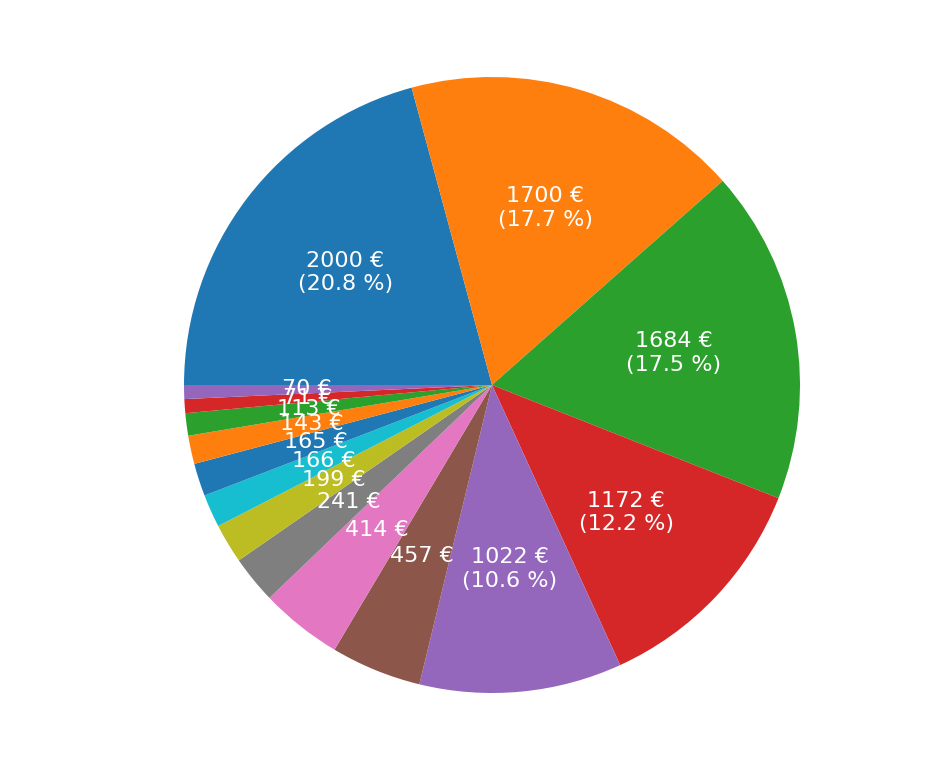
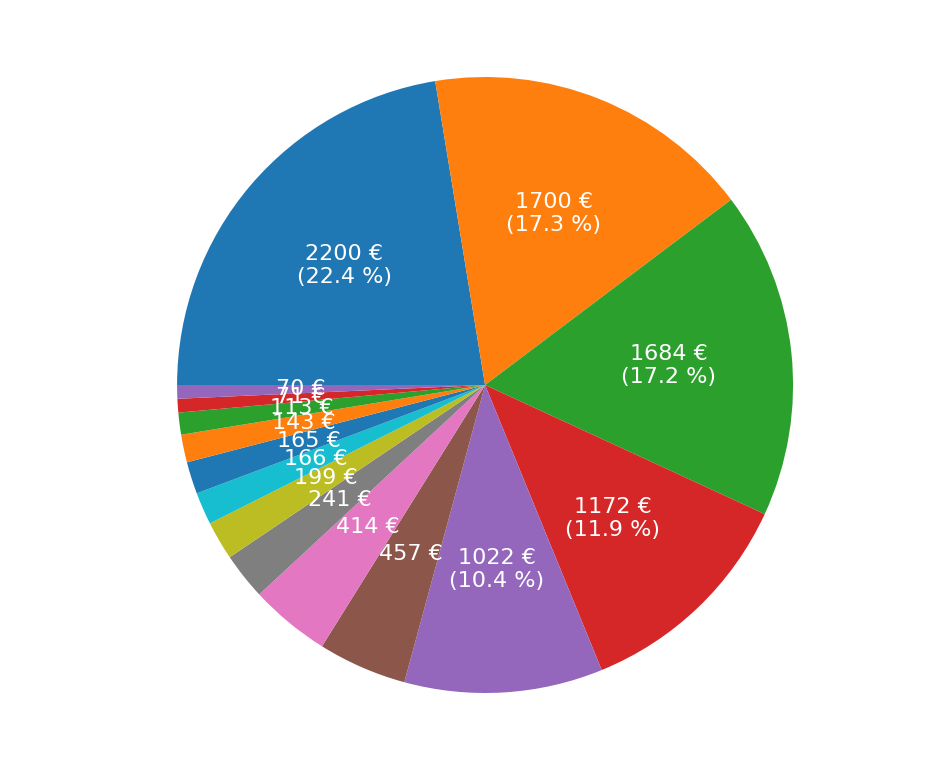
Update 24/06

diff --git a/page_compte.html b/page_compte.html
@@ -590,7 +590,7 @@
       <td>07/03/2022</td>
       <td>Courses Lasagnes</td>
       <td><a href="subpage_17.html">Lasagnes</a></td>
-      <td style="color:#FA413B"">-33.08 €</td>
+      <td style="color:#FA413B"">-74.83 €</td>
     </tr>
     <tr>
       <td>07/03/2022</td>
@@ -608,7 +608,7 @@
       <td>07/03/2022</td>
       <td>Courses Lasagnes</td>
       <td><a href="subpage_17.html">Lasagnes</a></td>
-      <td style="color:#FA413B"">-74.83 €</td>
+      <td style="color:#FA413B"">-33.08 €</td>
     </tr>
     <tr>
       <td>07/03/2022</td>
@@ -660,6 +660,12 @@
     </tr>
     <tr>
       <td>21/03/2022</td>
+      <td>Dépôt Cash Banque</td>
+      <td></td>
+      <td style="color:#34FF27"">405.00 €</td>
+    </tr>
+    <tr>
+      <td>21/03/2022</td>
       <td>Courses Bar Pis</td>
       <td><a href="subpage_5.html">Bar Pis 19/03</a></td>
       <td style="color:#FA413B"">-216.98 €</td>
@@ -669,12 +675,6 @@
       <td>Recettes Bar Pis</td>
       <td><a href="subpage_5.html">Bar Pis 19/03</a></td>
       <td style="color:#34FF27"">117.00 €</td>
-    </tr>
-    <tr>
-      <td>21/03/2022</td>
-      <td>Dépôt Cash Banque</td>
-      <td></td>
-      <td style="color:#34FF27"">405.00 €</td>
     </tr>
     <tr>
       <td>22/03/2022</td>
@@ -1056,15 +1056,15 @@
     </tr>
     <tr>
       <td>21/06/2022</td>
-      <td>Payement Hokaido</td>
-      <td><a href="subpage_18.html">Payement Camp pis</a></td>
-      <td style="color:#34FF27"">200.00 €</td>
-    </tr>
-    <tr>
-      <td>21/06/2022</td>
       <td><a href="subpage_22.html">Travaux Pis Q2</a></td>
       <td><a href="subpage_22.html">Travaux Pis Q2</a></td>
       <td style="color:#34FF27"">70.00 €</td>
+    </tr>
+    <tr>
+      <td>21/06/2022</td>
+      <td>Payement Hokaido</td>
+      <td><a href="subpage_18.html">Payement Camp pis</a></td>
+      <td style="color:#34FF27"">200.00 €</td>
     </tr>
     <tr>
       <td>22/06/2022</td>
@@ -1085,6 +1085,12 @@
       <td style="color:#FA413B"">-36.29 €</td>
     </tr>
     <tr>
+      <td>24/06/2022</td>
+      <td>Payement Couscous</td>
+      <td><a href="subpage_18.html">Payement Camp pis</a></td>
+      <td style="color:#34FF27"">200.00 €</td>
+    </tr>
+    <tr>
       <td>30/06/2022</td>
       <td>Créance Tricount</td>
       <td><a href="subpage_12.html">Créance</a></td>
@@ -1094,7 +1100,7 @@
       <td></td>
       <td>Total</td>
       <td></td>
-      <td style="color:#34FF27"">5371.80 €</td>
+      <td style="color:#34FF27"">5571.80 €</td>
     </tr>
   </tbody>
 </table>

diff --git a/page_total.html b/page_total.html
@@ -942,9 +942,9 @@
     </tr>
     <tr>
       <td>02/05/2022</td>
-      <td>Frais Banquaires</td>
-      <td><a href="subpage_13.html">Frais Divers</a></td>
-      <td style="color:#FA413B"">-4.50 €</td>
+      <td>Quick</td>
+      <td><a href="subpage_15.html">Grande Journée 30/04</a></td>
+      <td style="color:#FA413B"">-30.55 €</td>
     </tr>
     <tr>
       <td>02/05/2022</td>
@@ -990,9 +990,9 @@
     </tr>
     <tr>
       <td>02/05/2022</td>
-      <td>Quick</td>
-      <td><a href="subpage_15.html">Grande Journée 30/04</a></td>
-      <td style="color:#FA413B"">-30.55 €</td>
+      <td>Frais Banquaires</td>
+      <td><a href="subpage_13.html">Frais Divers</a></td>
+      <td style="color:#FA413B"">-4.50 €</td>
     </tr>
     <tr>
       <td>02/05/2022</td>
@@ -1158,15 +1158,15 @@
     </tr>
     <tr>
       <td>20/06/2022</td>
-      <td><a href="subpage_22.html">Travaux Pis Q2</a></td>
-      <td><a href="subpage_22.html">Travaux Pis Q2</a></td>
-      <td style="color:#34FF27"">84.00 €</td>
-    </tr>
-    <tr>
-      <td>20/06/2022</td>
       <td>Payement Madoqua</td>
       <td><a href="subpage_18.html">Payement Camp pis</a></td>
       <td style="color:#34FF27"">200.00 €</td>
+    </tr>
+    <tr>
+      <td>20/06/2022</td>
+      <td><a href="subpage_22.html">Travaux Pis Q2</a></td>
+      <td><a href="subpage_22.html">Travaux Pis Q2</a></td>
+      <td style="color:#34FF27"">84.00 €</td>
     </tr>
     <tr>
       <td>21/06/2022</td>
@@ -1199,6 +1199,12 @@
       <td style="color:#FA413B"">-36.29 €</td>
     </tr>
     <tr>
+      <td>24/06/2022</td>
+      <td>Payement Couscous</td>
+      <td><a href="subpage_18.html">Payement Camp pis</a></td>
+      <td style="color:#34FF27"">200.00 €</td>
+    </tr>
+    <tr>
       <td>30/06/2022</td>
       <td>Créance Tricount</td>
       <td><a href="subpage_12.html">Créance</a></td>
@@ -1208,7 +1214,7 @@
       <td></td>
       <td>Total</td>
       <td></td>
-      <td style="color:#34FF27"">7270.31 €</td>
+      <td style="color:#34FF27"">7470.31 €</td>
     </tr>
   </tbody>
 </table>

diff --git a/index.html b/index.html
@@ -9,7 +9,7 @@
 <body>
     <h1>Comptes Pis</h1>
 
-    <button onclick="location.href='page_compte.html'" type="button" class="BasicButton">Compte<br>5371.80 €</button>
+    <button onclick="location.href='page_compte.html'" type="button" class="BasicButton">Compte<br>5571.80 €</button>
     <button onclick="location.href='page_cash.html'" type="button" class="BasicButton">Cash<br>216.21 €</button>
     <button onclick="location.href='page_materiel.html'" type="button" class="BasicButton">Matériel<br>1682.30 €</button>
     <br><br><br><br><br>
@@ -18,7 +18,7 @@
         <button onclick="location.href='page_graphs.html'" type="button" class="CategoryButton">Graphes</button>
     </p>
     <br><br><br>
-    <button onclick="location.href='page_total.html'" type="button" class="TotalButton">Total 7270.31 €</button>
+    <button onclick="location.href='page_total.html'" type="button" class="TotalButton">Total 7470.31 €</button>
     
     
 </body>

diff --git a/subpage_18.html b/subpage_18.html
@@ -72,9 +72,14 @@
       <td style="color:#34FF27"">200.00 €</td>
     </tr>
     <tr>
+      <td>24/06/2022</td>
+      <td>Payement Couscous</td>
+      <td style="color:#34FF27"">200.00 €</td>
+    </tr>
+    <tr>
       <td></td>
       <td>Recettes Totales</td>
-      <td style="color:#34FF27"">2000.00 €</td>
+      <td style="color:#34FF27"">2200.00 €</td>
     </tr>
     <tr>
       <td></td>
@@ -84,7 +89,7 @@
     <tr>
       <td></td>
       <td>Total</td>
-      <td style="color:#34FF27"">2000.00 €</td>
+      <td style="color:#34FF27"">2200.00 €</td>
     </tr>
   </tbody>
 </table>

diff --git a/page_by_activity.html b/page_by_activity.html
@@ -129,7 +129,7 @@
     <tr>
       <td>20/05/2022</td>
       <td><a href="subpage_18.html">Payement Camp pis</a></td>
-      <td style="color:#34FF27"">2000.00 €</td>
+      <td style="color:#34FF27"">2200.00 €</td>
     </tr>
     <tr>
       <td>09/06/2022</td>
@@ -149,7 +149,7 @@
     <tr>
       <td></td>
       <td>Total</td>
-      <td style="color:#34FF27"">7270.31 €</td>
+      <td style="color:#34FF27"">7470.31 €</td>
     </tr>
   </tbody>
 </table>
